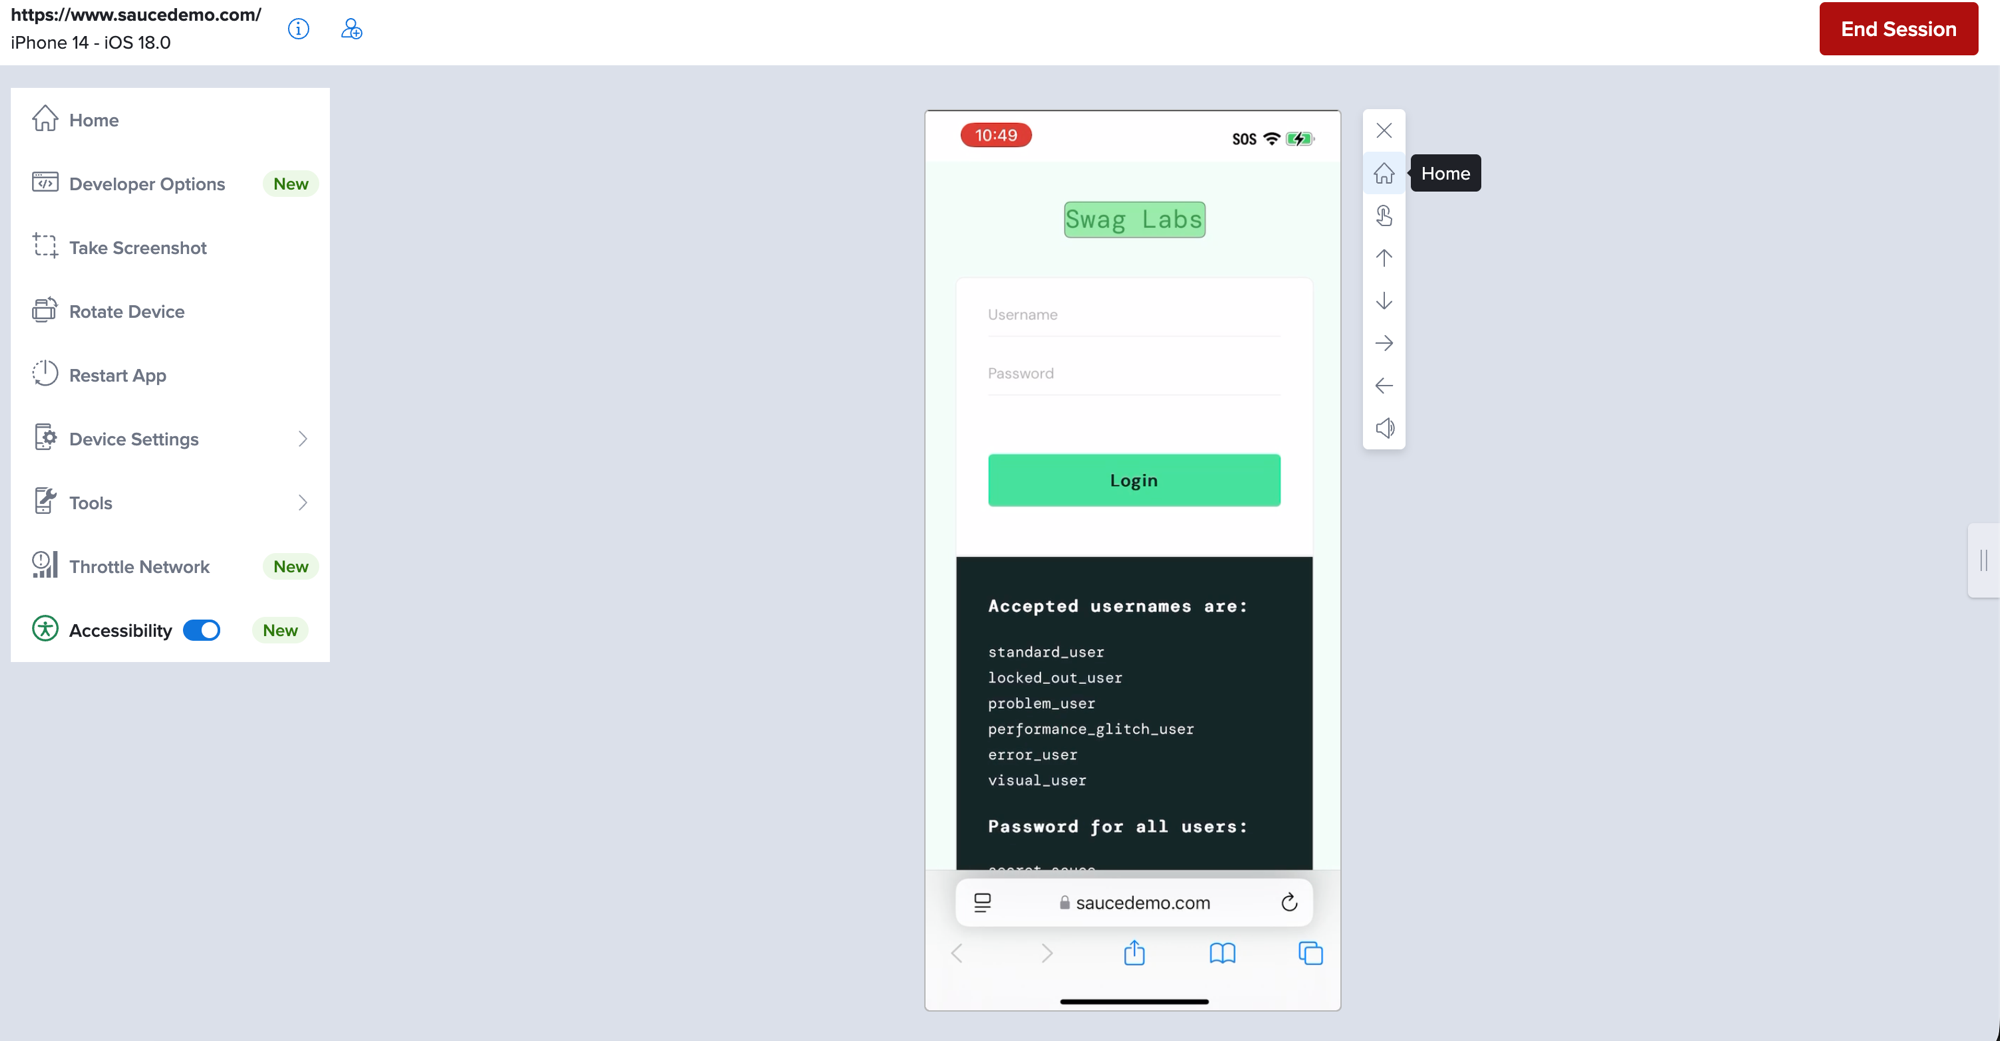
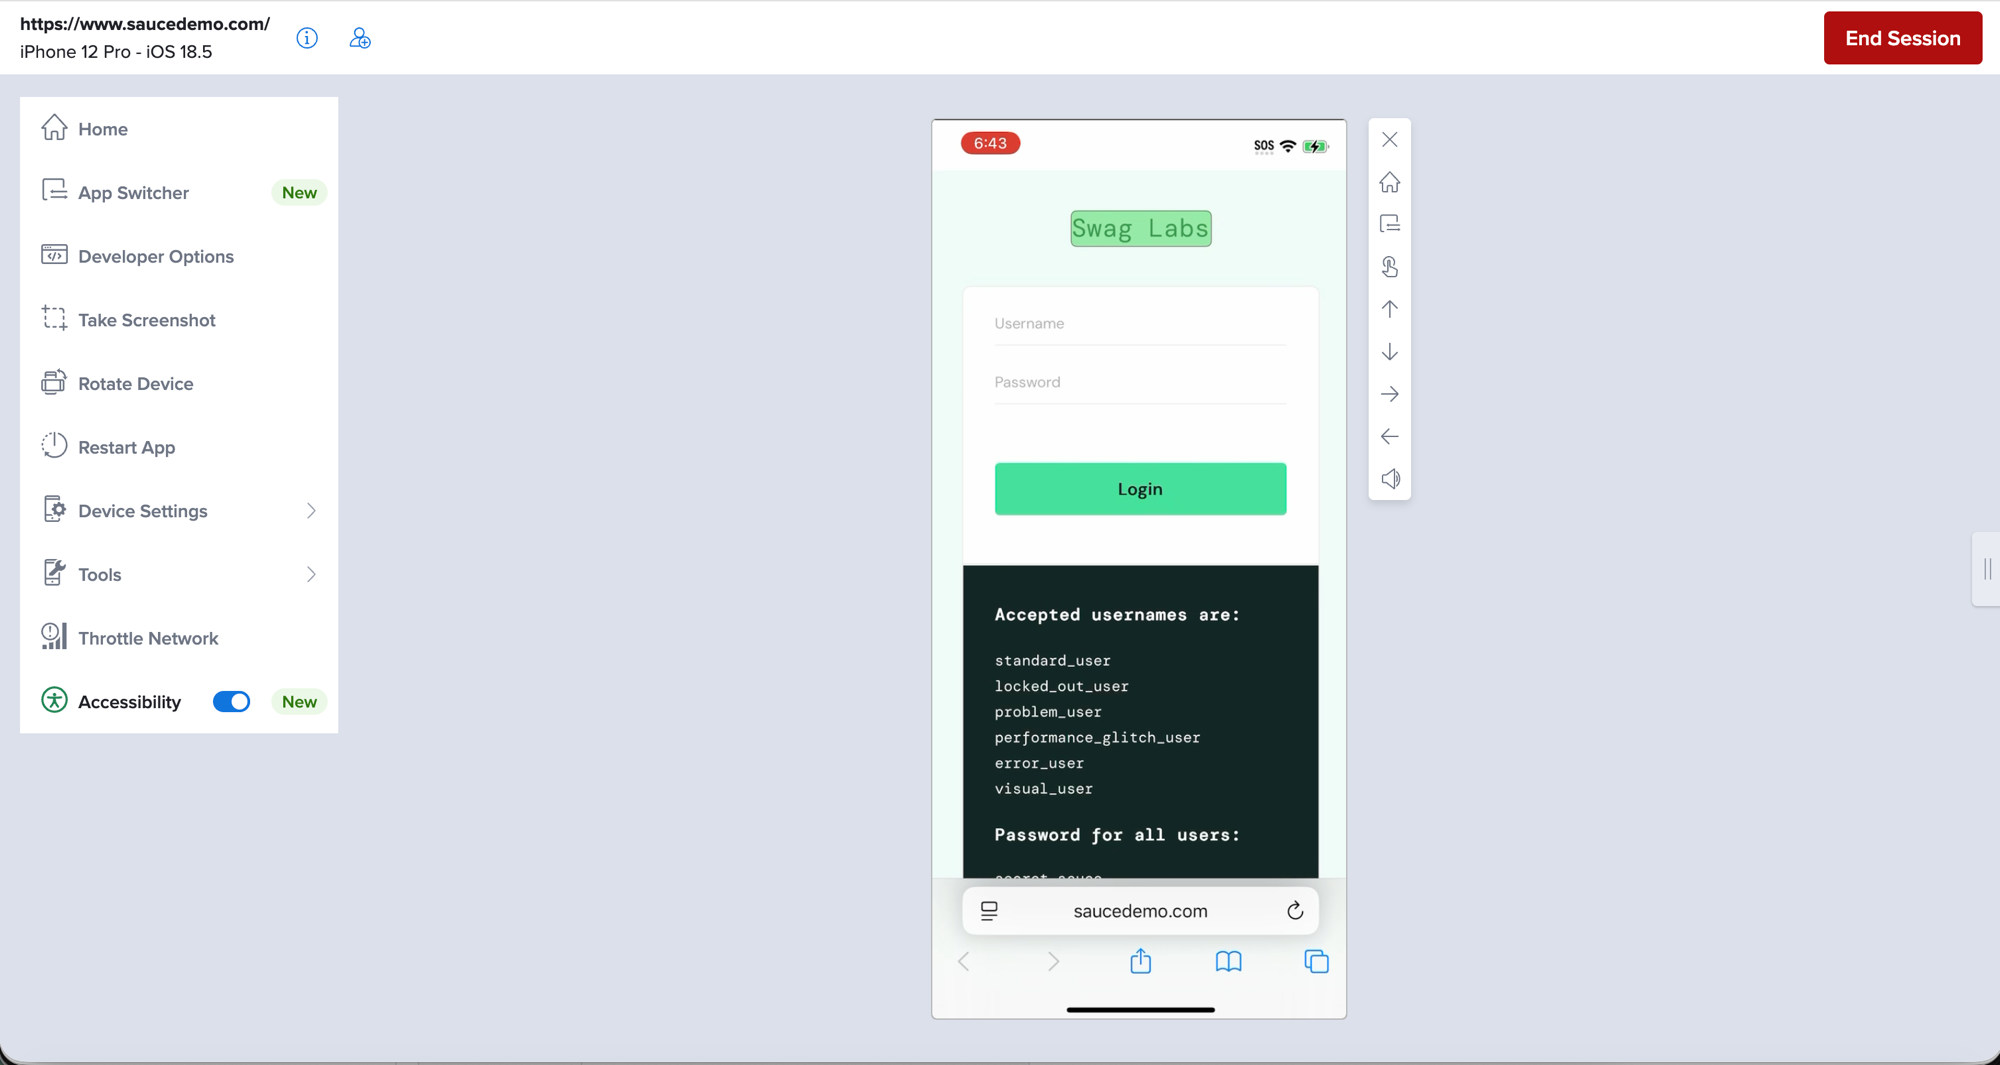
Added app switcher docs for iOS Accessibility Live Testing (#3496)
* added app awitcher docs

* REPLACE IMG

---------

diff --git a/docs/mobile-apps/features/accessibility-testing/ios-live-accessibility-testing.md b/docs/mobile-apps/features/accessibility-testing/ios-live-accessibility-testing.md
@@ -50,6 +50,7 @@ The Action Toolbar provides quick access to accessibility navigation actions. It
 |--------|--------|
 | **X** | Disable the Accessibility Inspector |
 | **Home** | Go to the home screen |
+| **App Switcher** | Open the app switcher (Face ID devices only) |
 | **Tap** | Tap the currently focused element |
 | **Up** | Jump to the first element on the screen |
 | **Down** | Jump to the last element on the screen |
@@ -73,6 +74,7 @@ Navigate between accessible elements using keyboard shortcuts:
 | **Down Arrow** | **Down Arrow** | Jump to the last element on the screen |
 | **Enter** | **Enter** | Tap the currently focused element |
 | **Ctrl + Shift + A** | **Ctrl + Shift + A** | Toggle Accessibility Inspector on/off |
+| **Ctrl + Shift + S** | **Ctrl + Shift + S** | Open app switcher (Face ID devices only) |
 | **Option + M** | **Alt + M** | Mute/unmute audio feedback |
 | **Option + H** | **Alt + H** | Navigate to Home screen |
 
@@ -151,6 +153,10 @@ For more details on sharing sessions, see [Live Mobile App Testing](/mobile-apps
 - **Stale focus after screen change.** After a screen transition, the focus rectangle may briefly remain on elements from the previous screen. You may need to navigate past stale elements for the inspector to synchronize with the new screen.
 - **Strange rectangles during navigation.** Occasionally, unexpected focus rectangles may appear during navigation. Press **Up Arrow** to jump to the first element and start navigating again.
 - **Initial focus may not land on the first element.** After enabling the inspector, the focus should land on the first element. In some cases this does not work. Press **Right Arrow** a few times, then **Up Arrow** to reset focus to the first element.
+
+### App Switcher
+
+- **Face ID devices only.** The app switcher gesture (swipe up and hold) is only supported on Face ID devices (iPhone X and later). Home button devices (iPhone 8, iPhone SE 1st–3rd gen) are not supported because the app switcher requires a physical double home press which cannot be simulated.
 
 ### Tap Behavior
 
